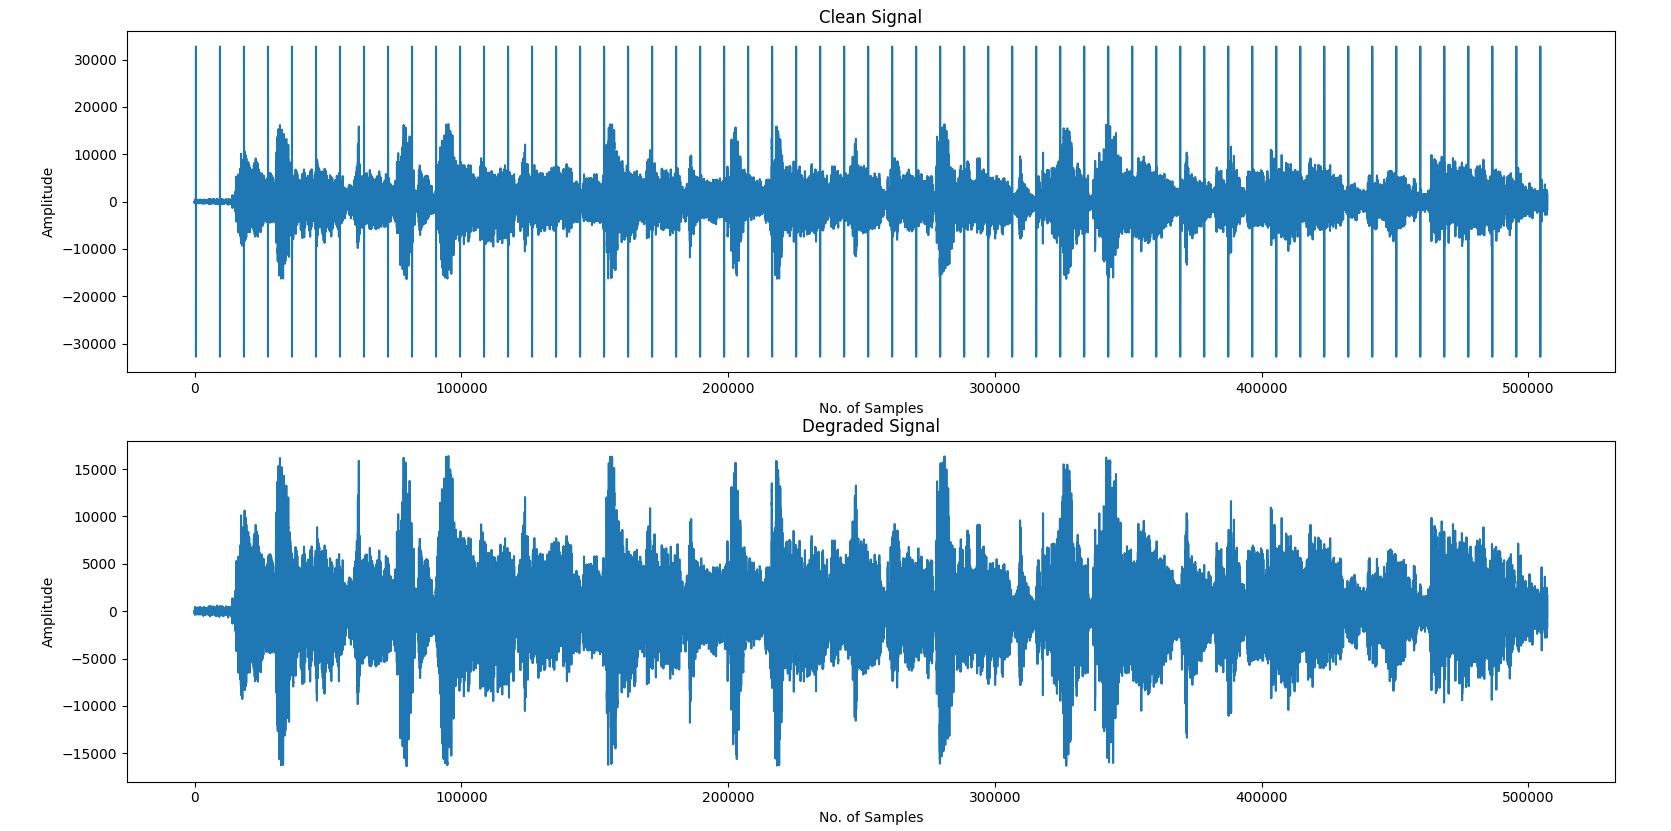
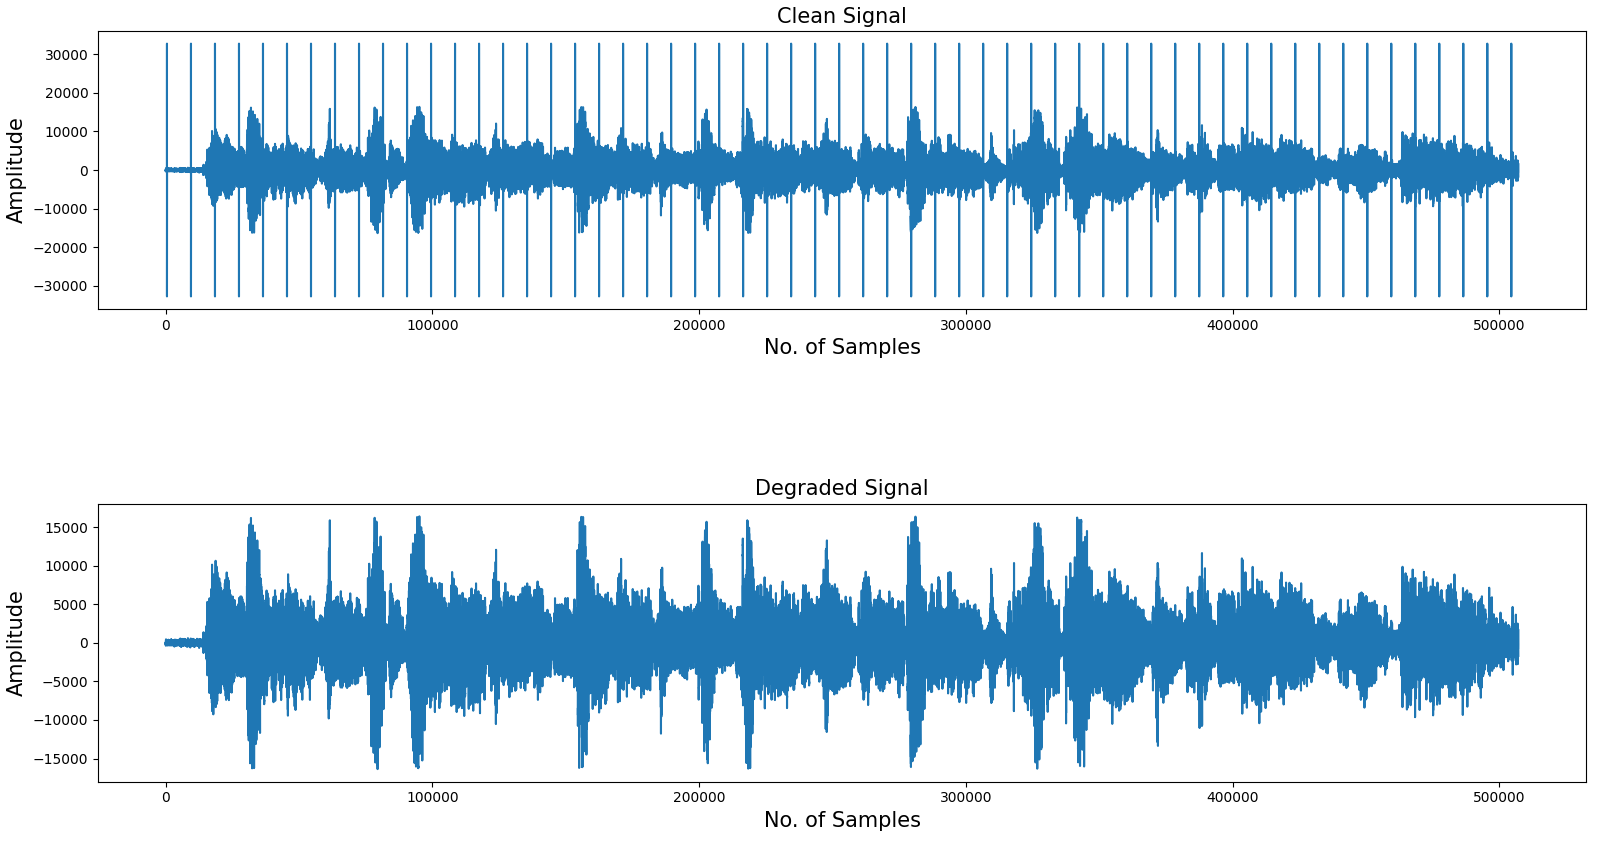
Assignment2_1 the newest one with read me

diff --git a/assignment2_fin/README.md b/assignment2_fin/README.md
@@ -94,7 +94,7 @@ If you need to test the results of the median filtering method, you can enter th
 
 2. The original audio signal with clicks and clean audio signal show like this:
 <div align=center>
-<img src="cl+de.png" width="550" >
+<img src="cl+de.png" width="750" >
 </div>
 
 
@@ -102,13 +102,13 @@ If you need to test the results of the median filtering method, you can enter th
 The restored waveform with the optimal filter length is given below:
 
 <div align=center>
-<img src="me.png" width="550">
+<img src="me.png" width="750">
 </div>
 
 Using the cubic splines, we observe the restored waveform with the optimal filter length is given below:
 
 <div align=center>
-<img src="cu.png" width="550">
+<img src="cu.png" width="750">
 </div>
 
 3. Comparing the two different interpolation methods, we notice that when the median filter choose the size which has the lowest MSE, the MSE of two methods is not much different, which are 54.62497559898334 (median filter) and 58.03656307490274 (cubic splines).
